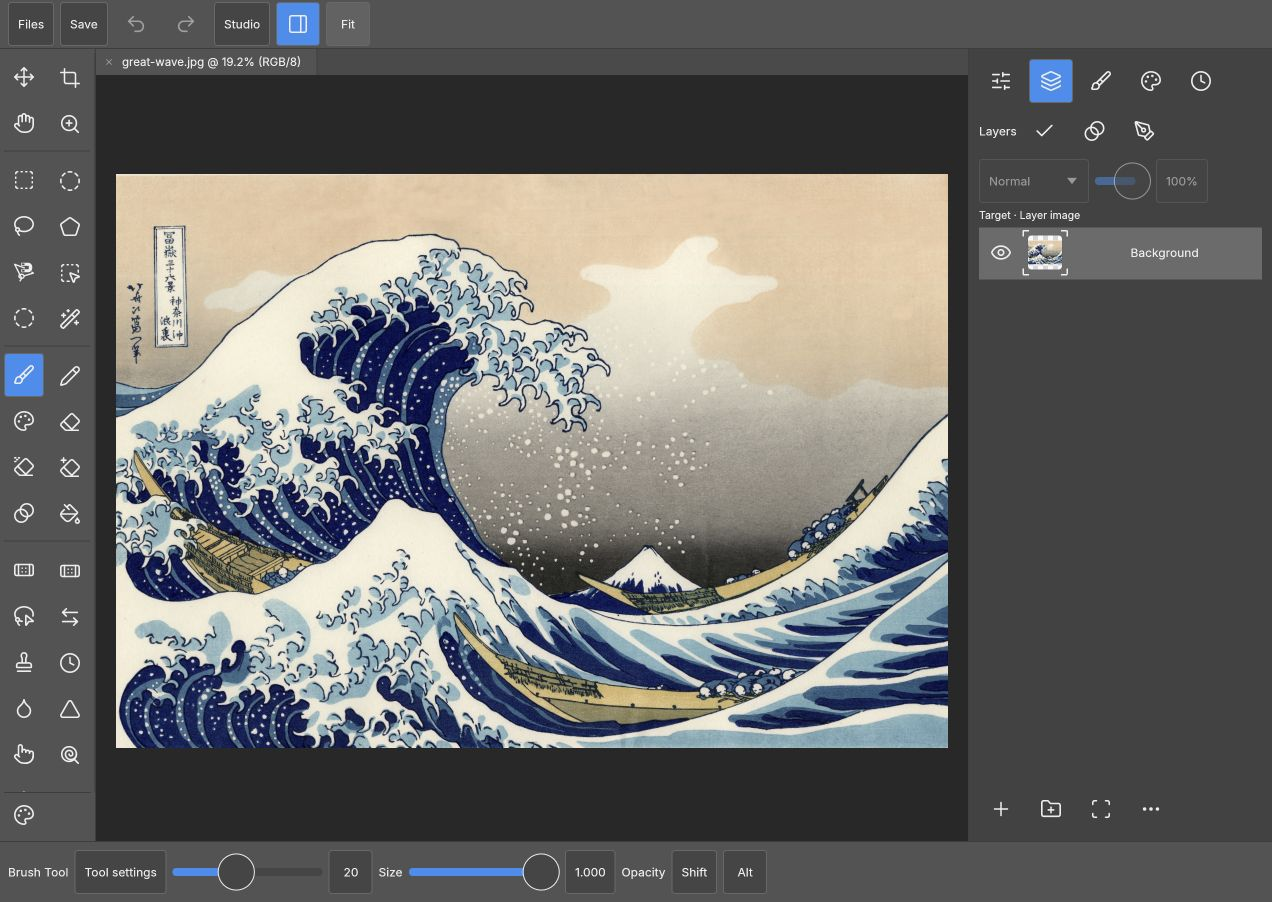
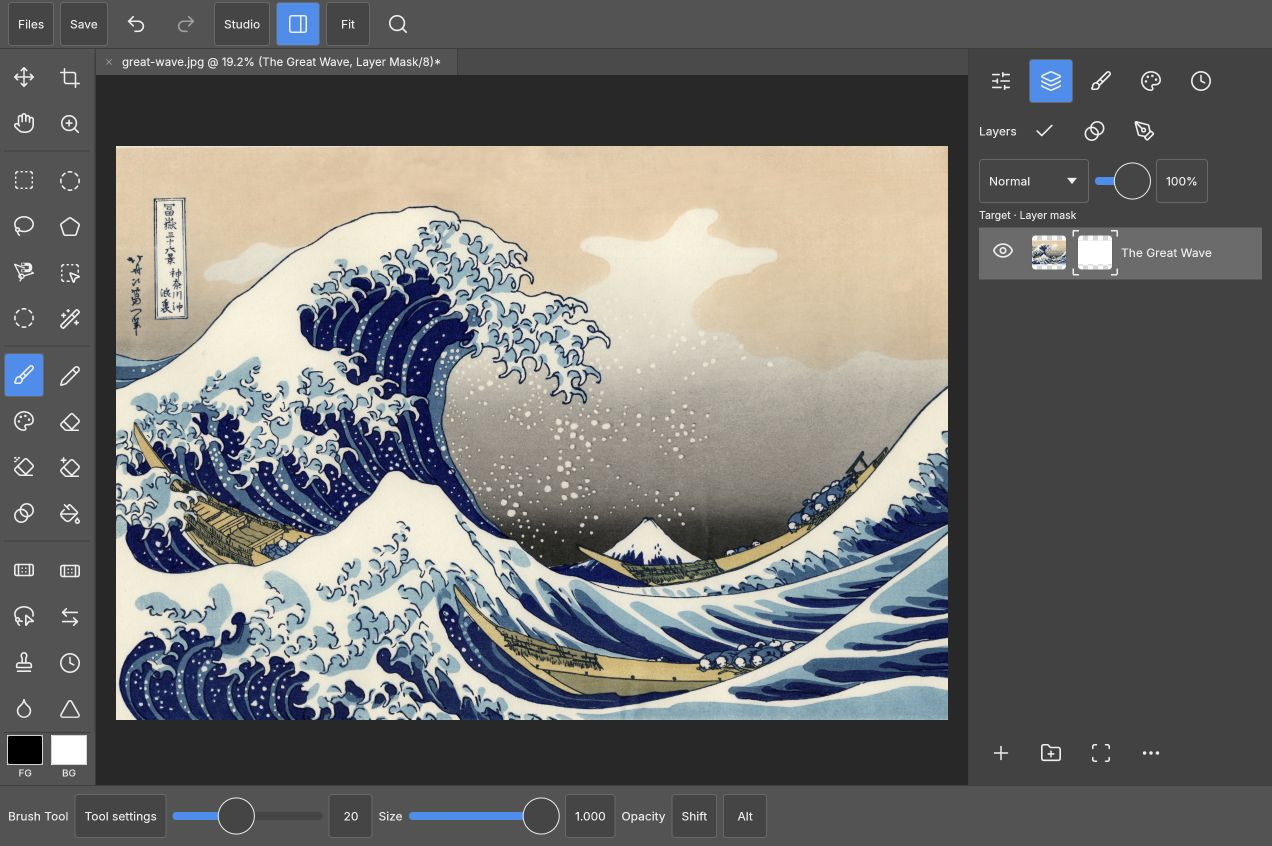
Show current colour and mask workflows with fresh README screenshots

diff --git a/README.md b/README.md
@@ -6,7 +6,7 @@ Layers, brushes, masks, channels and paths — with room for your hands.</p>
 <p align="center"><strong>v0.1</strong> · iPad browser workspace · MIT OR Apache-2.0<br>
 <a href="#build-and-try-locally">Build it</a> · <a href="docs/ipad-port.md">Roadmap</a> · <a href="CONTRIBUTING.md">Contribute</a> · <a href="https://github.com/storytold/photocraft">PhotoCraft upstream</a></p>
 
-<img src="public/images/workspace.jpg" alt="The PhotoCraft iPad workspace editing Hokusai’s Great Wave, with the touch tool rail and layer inspector." width="100%">
+<img src="public/images/workspace.jpg" alt="The current PhotoCraft iPad workspace with Hokusai’s Great Wave, pinned foreground/background colours, and separate image and mask targets in Layers." width="100%">
 
 <p align="center"><sub>The actual v0.1 browser workspace. Artwork: Hokusai, <em>The Great Wave off Kanagawa</em>, public domain.</sub></p>
 
@@ -17,23 +17,51 @@ preserves each sample's pressure and tilt, forwards coalesced samples when the
 browser provides them, suppresses palm contacts during drawing, and releases
 input on cancellation. Two fingers pan and pinch the canvas.
 
-**The controls come to you.** A touch tool rail, contextual options and an
-inspector that moves below the canvas in portrait and Split View. Use the grouped
-tool rail and familiar menu hierarchy; work with layers, groups, masks, channels,
-paths, colour and undo history. The brush studio exposes all 13 shared dynamics
-sections and a live stroke preview. New Document, Export and Layer Style have
-responsive touch layouts.
+**The controls come to you.** All 49 tools live in a grouped, scrollable rail,
+with contextual options and an inspector that moves below the canvas in portrait
+and Split View. Browse the familiar menu hierarchy or open search from the top
+bar. Search uses normal keyboard input, including the iPad keyboard's dictation;
+ambiguous names offer labelled choices.
+
+**Select, retouch, keep going.** Clone Stamp and Healing offer a one-shot
+**Set source** action: choose the source, then paint. Create a layer from selected
+pixels with **Layer via Copy/Cut**. Scroll panels by dragging, and keep image,
+mask and vector targets distinct. New Document, Export and Layer Style have
+responsive touch layouts. The [brush studio](public/images/brush-studio.jpg)
+exposes all 13 shared dynamics sections and a live stroke preview.
 
 **One editor engine.** PhotoCraft's Rust engine, canvas, file services and command
 system do the editing. This crate supplies the workspace and input adapter through
 a small browser-host seam. Edits follow the same command and undo paths. We link
 the core; we don't maintain another copy of it.
 
+## Colour, exactly where you want it
+
+Pinned foreground/background chips keep both colours visible. Colour studio
+combines a smooth saturation/value and hue picker with precise **RGB, HSB,
+Lab D50 and hex** entry. Each target remembers its hue through black and grey;
+switching numeric models preserves the chosen colour.
+
+Save named swatches in the browser and restore them in another workspace.
+Foreground changes also recolour selected type through PhotoCraft's shared
+editing command, with Undo.
+
+<img src="public/images/colour-studio.jpg" alt="Colour studio beside The Great Wave, showing separate foreground/background targets, Picker, Values and Swatches tabs, and a smooth blue saturation/value field." width="100%">
+
+## Masks beside the canvas
+
+Keep drawing while mask controls stay in the dock. Choose **Composite, Mask only
+or Overlay**, toggle Enabled and Linked, load a selection, invert, or apply and
+remove a mask. Vector masks expose path editing and conversion to a pixel mask.
+Switching targets finishes Quick Mask while preserving the selection you edited.
+
+Layers scroll independently above pinned actions. Nested groups and masked layers
+use compact or two-line rows to keep names readable and targets easy to hit;
+image and mask thumbnails stay distinct as the workspace resizes.
+
+<img src="public/images/mask-controls.jpg" alt="Docked pixel-mask controls beside The Great Wave, with Composite, Mask only, Overlay, Enabled, Linked, Load selection and Invert mask actions." width="100%">
+
 ## Built with PhotoCraft
-
-<img src="public/images/brush-studio.jpg" alt="The touch brush studio with a live stroke preview and PhotoCraft’s shared brush tip controls." width="100%">
-
-<p align="center"><sub>PhotoCraft’s brush controls, composed into a touch sheet.</sub></p>
 
 [PhotoCraft](https://github.com/storytold/photocraft), by the ArtCraft team and
 contributors, supplies the image editor underneath: its formats, rendering,
@@ -78,8 +106,9 @@ prevent stale application code from another checkout being linked.
 
 ## Where v0.1 goes next
 
-The workspace and input policies have automated coverage; browser checks cover
-create, paint, undo/redo, layer effects and export. The next pass is measured
+The workspace and input policies have automated coverage; browser checks include
+saved swatches, mask painting, retouching, layer targeting through resizing, and
+multi-layer PSD save/reopen. The next pass is measured
 physical Pencil testing, longer PSD workflows, remaining touch dialogs and
 recovery. The [roadmap](docs/ipad-port.md) and [test record](docs/verification.md)
 keep the detail in one place.

diff --git a/docs/visuals.md b/docs/visuals.md
@@ -9,13 +9,23 @@ Design brief: match the care and visual richness of PhotoCraft's presentation,
 show our actual iPad workspace, and give 1puni a small wink. Lead with the work.
 The cover's source is editable; it needs no image-generation service to reproduce.
 
-The workspace image is captured from the v0.1 browser build while displaying
+The editor screenshots are captured from the v0.1 browser build while displaying
 Hokusai's *The Great Wave off Kanagawa*, c. 1831, public domain.
 [Wikimedia source](https://commons.wikimedia.org/wiki/File:The_Great_Wave_off_Kanagawa.jpg).
 
-To reproduce: build and serve this repo, open `/ipad/?webgl`, import the artwork
-through Open, choose Fit, leave Layers visible and capture the page viewport.
-For the brush capture, choose Brush, then “All brush dynamics & preview”. Captures
-were made in Chrome at 1272×902 pixels on 8 October 2026, from a fresh clone's
-optimized extension snapshot `82be479` and patched engine tree in `upstream.env`.
-Keep browser chrome, private files and unrelated tabs out of the image.
+The workspace, Colour studio and mask-controls captures were refreshed on
+8 October 2026 from the optimized `d9f9605` build, in Chrome at 1272×846 pixels.
+They show the actual page viewport, without browser chrome or image compositing.
+The engine tree remains the one recorded in `upstream.env`.
+
+To reproduce: build and serve this repo, open `/ipad/?webgl` in a separate tab,
+import the artwork through Open and choose Fit. Unlock the background, name it
+“The Great Wave” and add a white pixel mask. Capture Layers for `workspace.jpg`;
+open its mask controls in Composite view for `mask-controls.jpg`. Select the image
+target and open Colour studio, choosing a blue foreground (`#4578b9` in this
+capture), for `colour-studio.jpg`. The artwork pixels are unchanged. No personal
+document, saved browser palette or unrelated tab is included.
+
+The linked brush-studio capture remains the earlier `82be479` snapshot, made in
+Chrome at 1272×902 pixels on the same date. To reproduce it, choose Brush, then
+“All brush dynamics & preview”.

diff --git a/ATTRIBUTION.md b/ATTRIBUTION.md
@@ -6,7 +6,7 @@
 | `patches/photocraft/*.patch` | 1puni changes to PhotoCraft, original authors retained in each patch | MIT OR Apache-2.0 |
 | Rust iPad workspace/input adapter, workbench and diagnostics | 1puni and contributors | MIT OR Apache-2.0 |
 | `public/images/cover.svg` | Original vector artwork by 1puni, created with AI coding assistance | MIT OR Apache-2.0 |
-| `public/images/workspace.jpg`, `public/images/brush-studio.jpg` | This project's browser UI displaying Hokusai's Great Wave (c. 1831); [artwork source](https://commons.wikimedia.org/wiki/File:The_Great_Wave_off_Kanagawa.jpg) | Artwork public domain; UI MIT OR Apache-2.0 |
+| `public/images/workspace.jpg`, `public/images/colour-studio.jpg`, `public/images/mask-controls.jpg`, `public/images/brush-studio.jpg` | This project's browser UI displaying Hokusai's Great Wave (c. 1831); [artwork source](https://commons.wikimedia.org/wiki/File:The_Great_Wave_off_Kanagawa.jpg); [capture provenance](docs/visuals.md) | Artwork public domain; UI MIT OR Apache-2.0 |
 | `experiments/segmentation/evidence/comparison.jpg` | Public-domain/CC0 scikit-image photographs and original synthetic fixtures; [individual sources](experiments/segmentation/ATTRIBUTION.md) | Source photographs public domain/CC0; original evaluation material MIT OR Apache-2.0 |
 
 The linked UI uses PhotoCraft's icon and font facilities. Its full asset inventory
